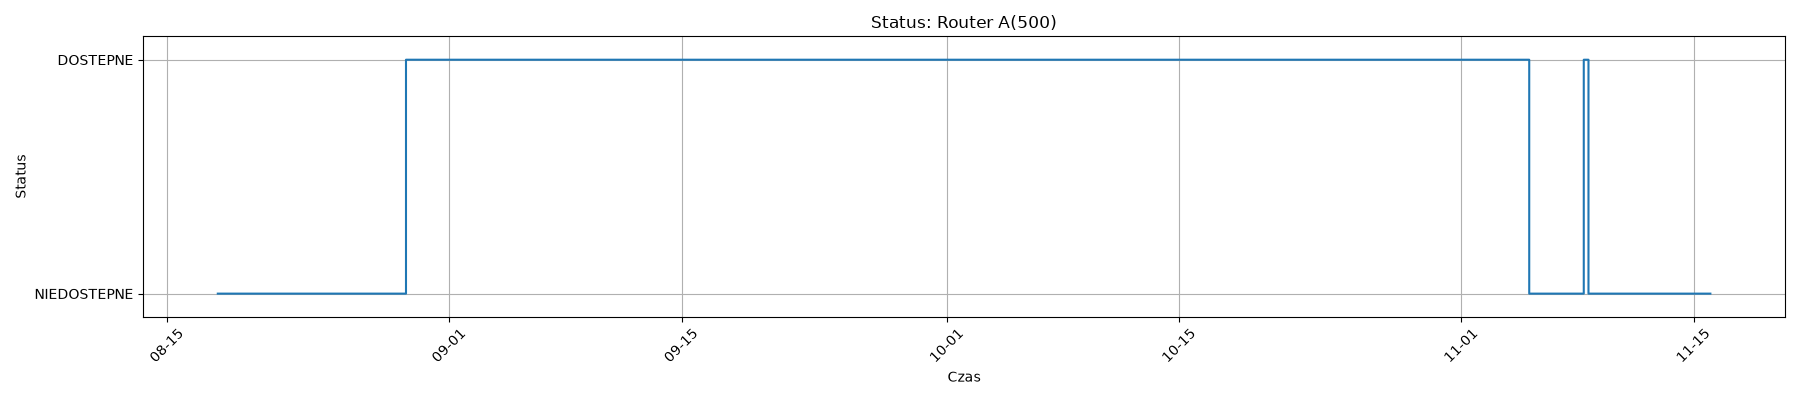
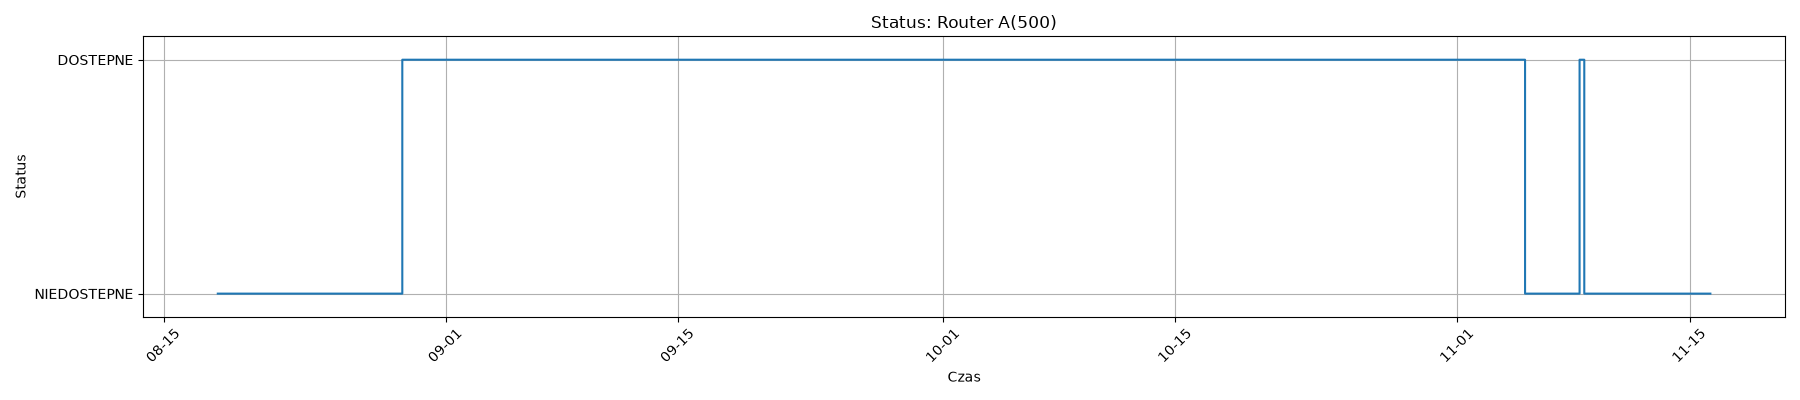
Automatyczna aktualizacja monitoringu

diff --git a/index.html b/index.html
@@ -33,5 +33,5 @@ img { border: 1px solid #ccc; border-radius: 8px; }
                 <div>Router B(300)</div>
                 <img src="chart_Router B(300).png" alt="Router B(300)" style="max-width:600px; margin-top:10px;">
             </div>
-            <p>Ostatnia zmiana: 2026-11-16 00:00:08</p>
+            <p>Ostatnia zmiana: 2026-11-16 06:08:38</p>
 </body></html>
